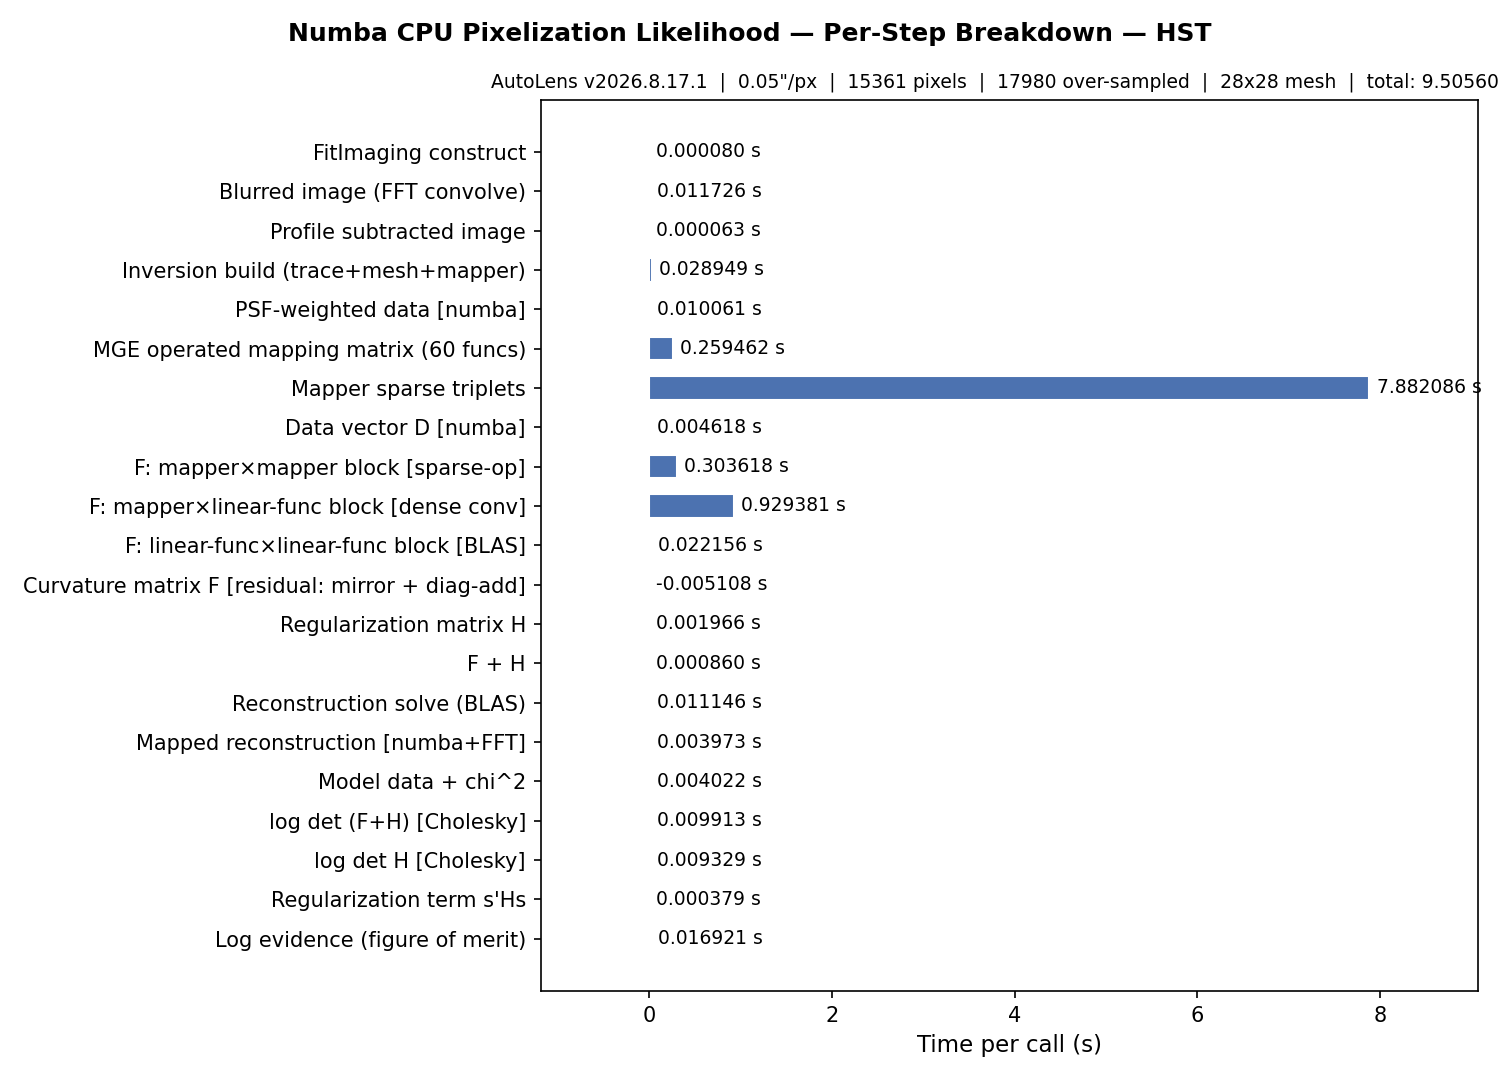
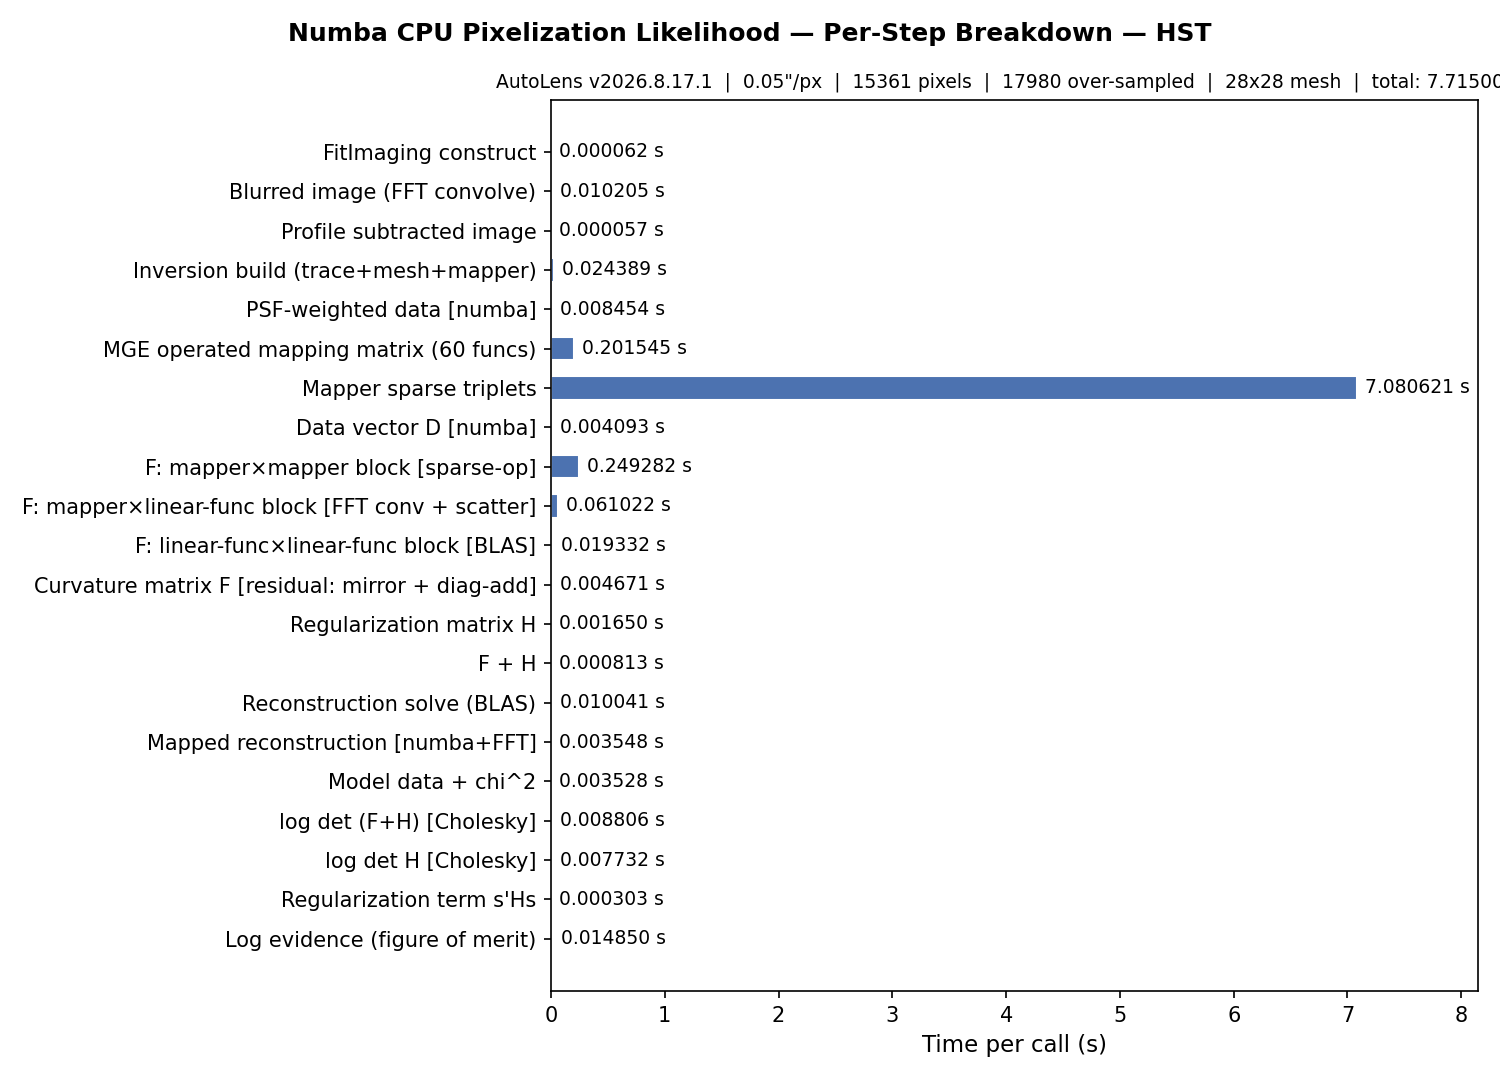
profiling: re-baseline the numba F breakdown after the FFT curvature block (#505)
PyAutoArray#505 steps 1-2 landed: the redundant passes over F are gone and the
mapper x linear-func block's dense sliding-window correlation now runs as a
batched FFT convolution with the reversed PSF, with only the scatter in numba.

All four breakdown cells re-run from scratch (OMP_NUM_THREADS=1,
AUTOARRAY_NUMBA_OPERATED_MEMO=0, n_repeats 10), plus a same-session
re-measurement of the step-0 commit for the three paired cells, because this
host carries ~20-30 % session-to-session variance and the step-0 table was
measured in a different session. Seconds per evaluation:

| cell              | eval           | F              | mapper x l-func |
|-------------------|----------------|----------------|-----------------|
| hst bilinear      | 1.562 -> 0.595 | 1.195 -> 0.359 | 0.858 -> 0.054  |
| euclid bilinear   | 0.349 -> 0.249 | 0.256 -> 0.097 | 0.182 -> 0.023  |
| hst Delaunay-1250 | 1.367 -> 0.758 | 1.077 -> 0.184 | 0.854 -> 0.052  |
| hst RTU           | (8.501) -> 7.479 | (1.250) -> 0.334 | (0.929) -> 0.061 |

~16x on the block, 3.3x on F (5.9x on Delaunay) and 2.6x on the whole HST
evaluation. RTU is unpaired: it is an 8.5 s cell dominated by its 7.1 s "mapper
sparse triplets" step and GPU-only by the 2026-08-28 decision, so it was re-run
once for currency.

F is no longer the dominant term at HST resolution — the mapper x mapper
sparse-operator block (0.277 s) and the MGE operated mapping matrix (0.224 s)
[…]

diff --git a/scripts/imaging/likelihood_breakdown/pixelization_numba.py b/scripts/imaging/likelihood_breakdown/pixelization_numba.py
@@ -27,7 +27,7 @@ incremental cost. The step list follows the traced call graph:
     mirror + diagonal-add residual — see the "Curvature matrix F sub-block
     instrumentation" note beside ``STEP_ACCESSORS``:
     9a. F: mapper x mapper block            [numba sparse-op kernel]
-    9b. F: mapper x linear-func block       [dense sliding-window convolution]
+    9b. F: mapper x linear-func block       [batched FFT convolution + numba scatter]
     9c. F: linear-func x linear-func block  [BLAS]
     9d. F residual: mirror + diag-add
 10. Regularization matrix H
@@ -222,7 +222,7 @@ print(f"  OMP_NUM_THREADS:         {os.environ.get('OMP_NUM_THREADS', '(unset)')
 # ``autoarray/inversion/inversion/imaging_numba/sparse.py``):
 #
 #   1. mapper x mapper       ``_curvature_matrix_mapper_diag``          [sparse-op numba kernel]
-#   2. mapper x linear-func  ``_curvature_matrix_mapper_func_blocks_from`` [dense sliding-window conv]
+#   2. mapper x linear-func  ``_curvature_matrix_mapper_func_blocks_from`` [batched FFT conv + numba scatter]
 #   3. linear-func x l-func  ``_curvature_matrix_func_func_blocks_from``   [BLAS dot]
 #
 # and then, in the ``curvature_matrix`` cached property, a global mirror plus
@@ -248,7 +248,7 @@ print(f"  OMP_NUM_THREADS:         {os.environ.get('OMP_NUM_THREADS', '(unset)')
 # out slightly negative. It is recorded as measured, never clipped.
 
 F_MAPPER_MAPPER_LABEL = "F: mapper×mapper block [sparse-op]"
-F_MAPPER_FUNC_LABEL = "F: mapper×linear-func block [dense conv]"
+F_MAPPER_FUNC_LABEL = "F: mapper×linear-func block [FFT conv + scatter]"
 F_FUNC_FUNC_LABEL = "F: linear-func×linear-func block [BLAS]"
 F_RESIDUAL_LABEL = "Curvature matrix F [residual: mirror + diag-add]"
 

diff --git a/scripts/imaging/likelihood_breakdown/delaunay_numba.py b/scripts/imaging/likelihood_breakdown/delaunay_numba.py
@@ -211,7 +211,7 @@ print(f"  OMP_NUM_THREADS:         {os.environ.get('OMP_NUM_THREADS', '(unset)')
 # ``autoarray/inversion/inversion/imaging_numba/sparse.py``):
 #
 #   1. mapper x mapper       ``_curvature_matrix_mapper_diag``          [sparse-op numba kernel]
-#   2. mapper x linear-func  ``_curvature_matrix_mapper_func_blocks_from`` [dense sliding-window conv]
+#   2. mapper x linear-func  ``_curvature_matrix_mapper_func_blocks_from`` [batched FFT conv + numba scatter]
 #   3. linear-func x l-func  ``_curvature_matrix_func_func_blocks_from``   [BLAS dot]
 #
 # and then, in the ``curvature_matrix`` cached property, a global mirror plus
@@ -237,7 +237,7 @@ print(f"  OMP_NUM_THREADS:         {os.environ.get('OMP_NUM_THREADS', '(unset)')
 # out slightly negative. It is recorded as measured, never clipped.
 
 F_MAPPER_MAPPER_LABEL = "F: mapper×mapper block [sparse-op]"
-F_MAPPER_FUNC_LABEL = "F: mapper×linear-func block [dense conv]"
+F_MAPPER_FUNC_LABEL = "F: mapper×linear-func block [FFT conv + scatter]"
 F_FUNC_FUNC_LABEL = "F: linear-func×linear-func block [BLAS]"
 F_RESIDUAL_LABEL = "Curvature matrix F [residual: mirror + diag-add]"
 

diff --git a/results/notes/numba_curvature_matrix_f_split.md b/results/notes/numba_curvature_matrix_f_split.md
@@ -1,6 +1,6 @@
-# Numba CPU curvature matrix F — sub-block split (PyAutoArray#505, step 0)
+# Numba CPU curvature matrix F — sub-block split (PyAutoArray#505)
 
-Measured 2026-08-28 on the local WSL host, `OMP_NUM_THREADS=1`,
+Step 0 (the baseline below) measured 2026-08-28 on the local WSL host, `OMP_NUM_THREADS=1`,
 `AUTOARRAY_NUMBA_OPERATED_MEMO=0`, PyAutoArray branch
 `feature/numba-hst-curvature-matrix-speedup`, autolens `v2026.8.17.1`,
 `n_repeats = 10`.
@@ -106,3 +106,79 @@ Pinned log-likelihood checks (rtol 1e-6): hst bilinear **PASSED**
 (27661.910133664103), hst RTU **PASSED** (27180.704715696862), hst Delaunay
 **PASSED** (29090.52721044813). euclid has no pinned value and is skipped by
 design; this run measured 6213.306873885871.
+
+
+---
+
+# Steps 1-2: the result (PyAutoArray#505)
+
+Measured 2026-08-28, same host and settings, `n_repeats = 10`, PyAutoArray
+`feature/numba-hst-curvature-matrix-speedup` at the step-2 commit.
+
+## What changed in the library
+
+**Step 1 — three redundant passes over F, none of which changed a value:**
+the global `curvature_matrix_mirrored_from` (every block was already symmetric
+or had a known transpose, so the two off-diagonal writers now place the
+transpose themselves); the `np.array(...)` copies of the three
+`mapper.unique_mappings` arrays; and the per-mapper re-derivation and second
+copy of `operated_mapping_matrix / noise_map ** 2`. Verified bit-identical:
+`np.array_equal` on F, `True` on both euclid and hst.
+
+**Step 2 — the FFT lever.** The mapper x linear-func block's dense sliding
+window is a *correlation* with the PSF, which is exactly a convolution with the
+PSF reversed along both axes. It now runs through the existing batched
+`Convolver` (new cached `Convolver.reversed_kernel`), once per linear func
+rather than once per (mapper, linear func) pair, and only the sparse scatter
+onto source pixels stays in numba
+(`curvature_matrix_off_diags_via_mapper_and_blurred_curvature_weights_from`).
+The dense kernel is kept as the reference the FFT path is asserted against in
+the unit tests, with asymmetric non-square PSFs so a missing reversal fails.
+
+## Before / after (seconds per evaluation)
+
+The step-0 table above and this one were measured in different sessions, and
+this host carries ~20-30 % session-to-session variance, so the before column
+here is a **fresh re-measurement of the step-0 commit taken back-to-back with
+the after run**, not the step-0 table. (The step-0 numbers for the same cells
+were 1.738 / 0.444 / 1.455 s.)
+
+| cell | eval | F total | mapper x mapper | mapper x l-func | l-func x l-func |
+|---|---|---|---|---|---|
+| hst, rectangular bilinear | 1.562 -> **0.595** | 1.195 -> **0.359** | 0.295 -> 0.277 | 0.858 -> **0.054** | 0.0209 -> 0.0215 |
+| euclid, rectangular bilinear | 0.349 -> **0.249** | 0.256 -> **0.097** | 0.060 -> 0.065 | 0.182 -> **0.023** | 0.0043 -> 0.0045 |
+| hst, Delaunay-1250 | 1.367 -> **0.758** | 1.077 -> **0.184** | 0.122 -> 0.123 | 0.854 -> **0.052** | 0.0215 -> 0.0192 |
+| hst, rectangular RTU | (step-0: 8.501) -> 7.479 | (1.250) -> **0.334** | (0.304) -> 0.249 | (0.929) -> **0.061** | 0.0222 -> 0.0193 |
+
+RTU has no same-session before column: it is an 8.5 s cell dominated by the
+7.1 s "mapper sparse triplets" step and is GPU-only by the 2026-08-28 decision,
+so it was re-run once for currency rather than paired.
+
+Speed-ups: **~16x on the mapper x linear-func block**, **3.3x on F** (5.9x on
+Delaunay, where F was 74 % of the evaluation), and **2.6x on the whole HST
+evaluation**. The 2x goal for the issue is met on the HST rectangular and
+Delaunay cells.
+
+## Where the time went
+
+F is no longer the dominant term at HST resolution. After the change the
+largest steps on hst bilinear are the mapper x mapper sparse-operator block
+(0.277 s) and the MGE operated mapping matrix (0.224 s); the mapper x
+linear-func block has fallen from 72 % of F to 15 %. The mapper x mapper block
+is now the phase-2 candidate.
+
+## Correctness
+
+F agrees with the sliding-window result to **3e-18 relative** on both euclid
+and hst (the FFT is not bit-identical to the direct sum, as expected). Pinned
+log-likelihood checks **PASSED** on all three pinned cells: hst bilinear
+27661.91013366411 (pinned 27661.910133665442), hst RTU 27180.70471569685
+(pinned 27180.704715698186), hst Delaunay 29090.527210448134 (pinned
+29090.527192092646). euclid, which has no pin, measured 6213.306873885871 —
+unchanged to every recorded digit.
+
+## Harness change
+
+The `F: mapper x linear-func block` step label was `[dense conv]` and is now
+`[FFT conv + scatter]`, since that is what it now times. Nothing else about the
+step list, the residual design or the pins changed.
